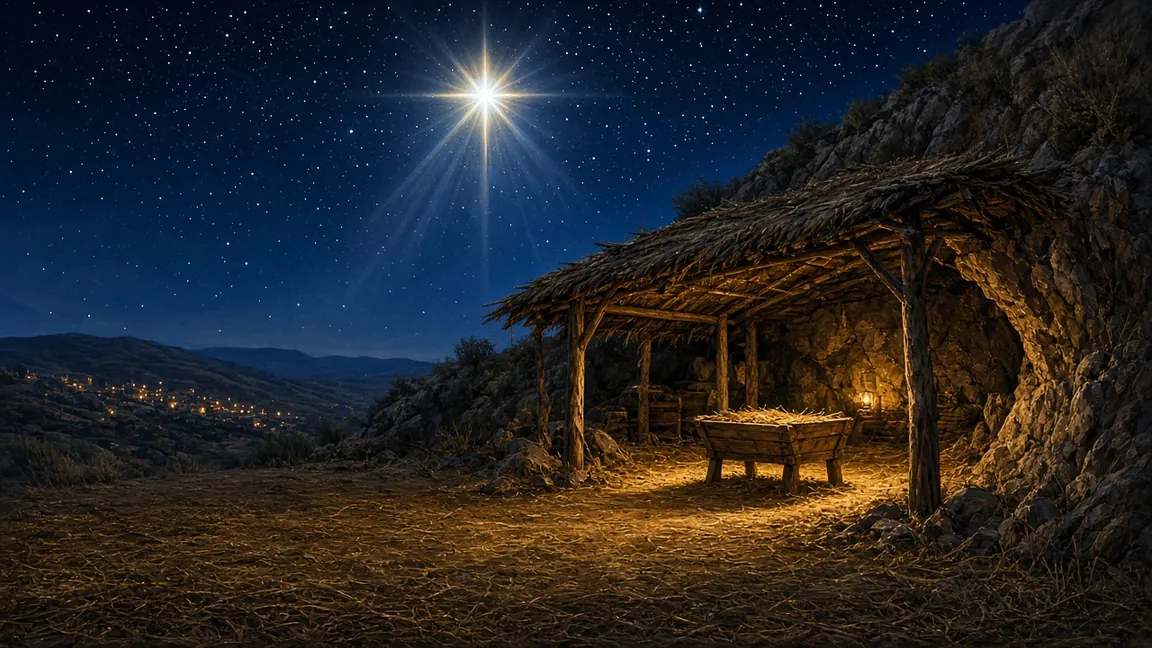
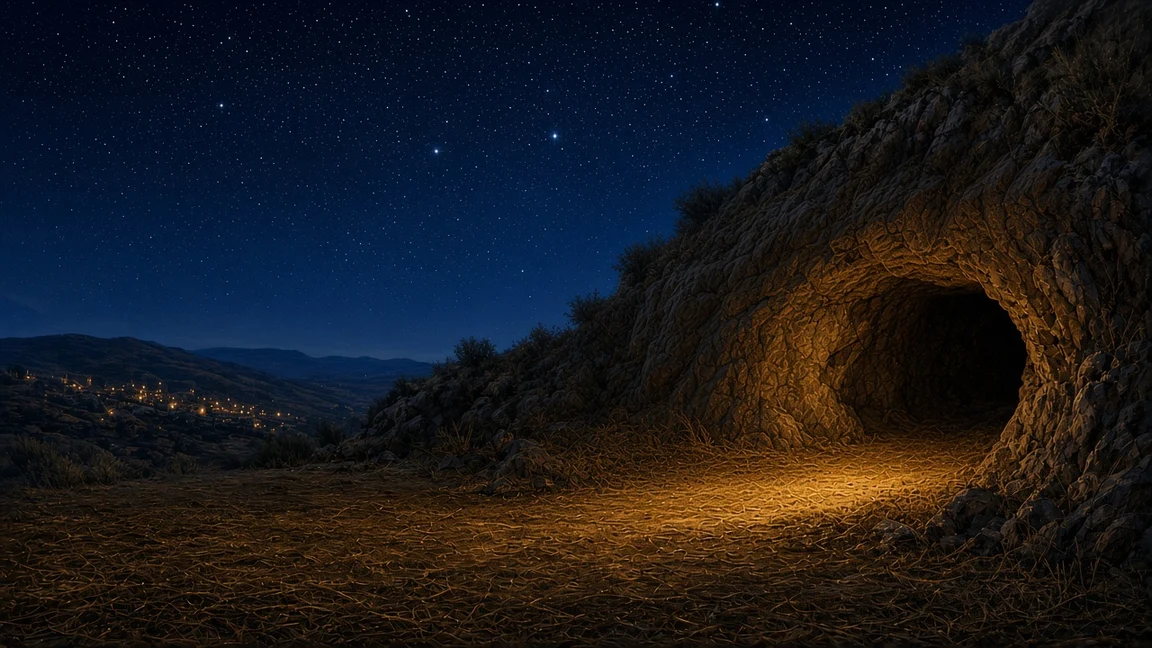
Title/nativity: one manger, one stable, one star (painted night backdrop repainted without its own shed/manger/star; stable's empty manger hidden once Baby Jesus is placed); sheep spaced in a natural flock, angels spaced; companions stay on the ground and leap gaps (no floating/stacking after a fall

Changed region(s): [[0.0, 0.0, 1.0, 1.0], [0.0625, 0.5864, 0.2188, 0.6481], [0.5938, 0.0, 0.625, 0.0309]]

diff --git a/index.html b/index.html
@@ -287,20 +287,20 @@ const LEVELS=[
   outro:[{who:'angel',text:'The angel Gabriel came to Mary in Nazareth with good news: she would have a son, and his name would be JESUS.',ref:'Luke 1:26-31'},
          {who:'mary',text:'"Behold the handmaid of the Lord; be it unto me according to thy word."',ref:'Luke 1:38 (KJV)'}],
   piece:'mary',why:'Mary trusted God\'s word. God always keeps his promises.'},
- {n:2,name:"Joseph's Dream",ref:'Matthew 1:20-23 (KJV)',theme:'day',hero:'joseph',song:1,len:2700,
+ {n:2,name:"Joseph's Dream",ref:'Matthew 1:23 (KJV)',theme:'day',hero:'joseph',song:1,len:2700,
   verse:'Behold, a virgin shall be with child, and shall bring forth a son, and they shall call his name Emmanuel, which being interpreted is, God with us.',
   pre:[{who:'dream',text:'While Joseph slept, the angel of the Lord appeared to him in a dream: "Joseph, thou son of David, fear not to take unto thee Mary thy wife."',ref:'Matthew 1:20 (KJV)'}],
   how:'Joseph woke up and obeyed. Gather 6 wooden planks and his 6 carpentry tools, then press ACTION to get the house ready.',
   obj:[{id:'plank',label:'Planks',n:6},{id:'tool',label:'Tools found',n:6},{id:'ready',label:'House ready',n:3}],goalLabel:'the house',
   outro:[{who:'joseph',text:'Joseph did as the angel of the Lord told him, and took Mary as his wife.',ref:'Matthew 1:24'}],
   piece:'joseph',why:'Jesus is Emmanuel. God came to be with us.'},
- {n:3,name:'No Room',ref:'Luke 2:1-7 (KJV)',theme:'night',hero:'joseph',song:2,len:2900,
+ {n:3,name:'No Room',ref:'Luke 2:7 (KJV)',theme:'night',hero:'joseph',song:2,len:2900,
   verse:'And she brought forth her firstborn son, and wrapped him in swaddling clothes, and laid him in a manger; because there was no room for them in the inn.',
   how:'Bethlehem is full! Knock on the inn doors with ACTION. Pick up straw on the way, then fix up the stable: sweep, fill the manger and calm the animals.',
   obj:[{id:'inn',label:'Inns asked',n:3},{id:'straw',label:'Straw',n:9},{id:'sweep',label:'Swept',n:4},{id:'calm',label:'Animals calm',n:2},{id:'manger',label:'Manger filled',n:1}],goalLabel:null,
   outro:[{who:'stable',text:'There was no room in the inn, so Mary laid her baby in a manger. The King of heaven was born in a humble stable.',ref:'Luke 2:7'}],
   piece:'stable',why:'The King of all came humbly, to a manger, for everyone.'},
- {n:4,name:"Shepherds' Field",ref:'Luke 2:8-12 (KJV)',theme:'field',hero:'shepherd',song:0,len:2900,
+ {n:4,name:"Shepherds' Field",ref:'Luke 2:8 (KJV)',theme:'field',hero:'shepherd',song:0,len:2900,
   verse:'And there were in the same country shepherds abiding in the field, keeping watch over their flock by night.',
   how:'Eight sheep wandered off! Walk close to each one and it will follow you. Bring all 8 back to the fold on the left.',
   obj:[{id:'fold',label:'Sheep home',n:8}],goalLabel:null,
@@ -313,14 +313,14 @@ const LEVELS=[
   obj:[{id:'note',label:'Notes of light',n:16}],goalLabel:'the choir',
   outro:[{who:'choir',text:'"Glory to God in the highest, and on earth peace, good will toward men."',ref:'Luke 2:14 (KJV)'}],
   piece:'angels',why:'Heaven celebrates, because the Saviour has come.'},
- {n:6,name:'Go and See',ref:'Luke 2:15-20 (KJV)',theme:'night',hero:'shepherd',song:2,len:2900,
+ {n:6,name:'Go and See',ref:'Luke 2:15-16 (KJV)',theme:'night',hero:'shepherd',song:2,len:2900,
   verse:'Let us now go even unto Bethlehem, and see this thing which is come to pass, which the Lord hath made known unto us. And they came with haste.',
   how:'Hurry to Bethlehem! Press ACTION to light the 10 street lanterns on the way, then find the stable.',
   obj:[{id:'lantern',label:'Lanterns lit',n:10}],goalLabel:'the stable',
   outro:[{who:'scene',text:'They came with haste, and found Mary, and Joseph, and the babe lying in a manger.',ref:'Luke 2:16 (KJV)'},
-         {who:'shepherds',text:'"And the shepherds returned, glorifying and praising God for all the things that they had heard and seen."',ref:'Luke 2:20 (KJV)'}],
+         {who:'shepherds',text:'"And the shepherds returned, glorifying and praising God for all the things that they had heard and seen, as it was told unto them."',ref:'Luke 2:20 (KJV)'}],
   piece:'shepherds',why:'Good news is for sharing. The shepherds told everyone.'},
- {n:7,name:'The Star',ref:'Matthew 2:1-11 (KJV)',theme:'night',hero:'wise',song:0,len:1900,
+ {n:7,name:'The Star',ref:'Matthew 2:10 (KJV)',theme:'night',hero:'wise',song:0,len:1900,
   verse:'When they saw the star, they rejoiced with exceeding great joy.',
   how:'The Wise Men have come to Bethlehem. Gather the starlight on the rooftops until the star stops over the HOUSE. Then present your 3 gifts at the door.',
   obj:[{id:'spark',label:'Starlight',n:14},{id:'gift',label:'Gifts given',n:3}],goalLabel:'the house',
@@ -363,11 +363,11 @@ function build(n){const L=LEVELS[n-1],w=newWorld(L),r=mulberry(n*7919+11);
     [[485,'"Sorry, no room here!"'],[1085,'"We are full. No room!"'],[1670,'"No room in the inn... but you may use my stable."']].forEach(([x,say],i)=>spot(w,'inn',x,GY,{obj:'inn',seq:i,say}));
     [[880,GY-24],[1270,GY-26],[1660,GY-30],[1845,GY-28],[2120,GY]].forEach(([x,y])=>item(w,'straw',x,y,{obj:'straw'}));
     [2330,2390,2520,2580].forEach(x=>spot(w,'sweep',x,GY,{obj:'sweep',need:['inn']}));spot(w,'manger',2456,GY,{obj:'manger',need:['inn','straw','sweep']});
-    w.npcs.push({k:'ox',x:2360,y:GY,f:1,ph:0,x0:2300,x1:2440,sp:10,calm:false,obj:'calm'},{k:'goat',x:2560,y:GY,f:-1,ph:0,x0:2480,x1:2620,sp:12,calm:false,obj:'calm'});
+    w.npcs.push({k:'ox',x:2360,y:GY,f:1,ph:0,x0:2300,x1:2418,sp:10,calm:false,obj:'calm'},{k:'goat',x:2560,y:GY,f:-1,ph:0,x0:2480,x1:2620,sp:12,calm:false,obj:'calm'});
     w.stable={x:2460};[900,1530].forEach(x=>w.thorns.push({x}));w.followers.push({k:'donkeyMary',x:20,y:GY,f:1,ph:0,until:2250});bgTown(w,r,0,1);w.goal={x:-1}}
   if(n===4){[[520,30],[1130,34],[1720,30],[2330,32]].forEach(a=>gap(w,...a));
     [[360,22,40],[860,26,50],[945,48,36],[1450,24,46],[1530,44,40],[1980,26,44],[2060,50,40],[2580,28,50]].forEach(([x,h,wd])=>plat(w,x,GY-h,wd,'rock'));
-    w.fold={x0:12,x1:92};w.start={x:116,y:GY};
+    w.fold={x0:12,x1:140};w.start={x:164,y:GY};
     [[380,GY-22],[700,GY],[960,GY-48],[1300,GY],[1550,GY-44],[1880,GY],[2080,GY-50],[2700,GY]].forEach(([x,y],i)=>w.sheep.push({x,y,f:i%2?1:-1,ph:0,name:SHEEP_NAMES[i],st:'lost',x0:x,mv:false,bub:0,i}));
     [640,1250,1820,2460].forEach(x=>w.thorns.push({x}));w.goal={x:-1}}
   if(n===5){w.len=200;w.segs=[[0,200]];const top=GY-2300;let x=90,y=GY;for(let i=0;y>top+60;i++){y-=28+(i%3)*3;const wd=34+r()*16|0;x=clamp(x+(r()<0.5?-1:1)*(28+r()*28),8,192-wd);const p=plat(w,x,y,wd,'cloud');if(i%5===3){p.mv=1;p.x0=x;p.amp=18;p.ph=r()*6}
@@ -389,7 +389,7 @@ function build(n){const L=LEVELS[n-1],w=newWorld(L),r=mulberry(n*7919+11);
     [[300,26,40],[700,30,44],[785,52,36],[1150,26,40],[1225,46,36]].forEach(([x,h,wd])=>plat(w,x,GY-h,wd,'rock'));house(w,1700,60,30);house(w,1840,80,34);
     [[200,GY],[320,GY-26],[620,GY],[800,GY-52],[1170,GY-26],[1240,GY-46],[1660,GY],[1730,GY-30]].forEach(([x,y])=>spot(w,'candle',x,y,{obj:'candle'}));
     spot(w,'see',1460,GY,{obj:'see',need:['candle']});w.stable={x:1460};[440,900].forEach(x=>w.thorns.push({x}));
-    w.npcs.push({k:'ox',x:1430,y:GY,f:1,ph:0,x0:1420,x1:1436,sp:3},{k:'donkey',x:1495,y:GY,f:-1,ph:0,x0:1486,x1:1500,sp:3});w.goal={x:-1};bgTown(w,r,0,1)}
+    w.npcs.push({k:'ox',x:1412,y:GY,f:1,ph:0,x0:1406,x1:1416,sp:3},{k:'donkey',x:1506,y:GY,f:-1,ph:0,x0:1502,x1:1510,sp:3});/* beside Mary and Joseph, not in front of them */w.goal={x:-1};bgTown(w,r,0,1)}
   const EXT={1:[1700,'spot','lamp',5],2:[1700,'item','plank',6],3:[1500,'item','straw',4],4:[900,null,null,0],6:[1500,'spot','lantern',4],7:[2200,'item','spark',5],8:[2300,'spot','candle',4]}[n];
   if(EXT)extendLevel(w,r,L,...EXT);
   return w}
@@ -476,11 +476,13 @@ const PIECE_ORDER=['stable','mary','joseph','sheep','angels','shepherds','star',
 let SCENE=LS.get('scene',{pieces:{},sheep:[],decos:[]});
 function saveScene(){LS.set('scene',SCENE)}
 function drawPiece(id,x,y,o2={}){const ph=o2.ph||0,mv=!!o2.mv;
-  if(id==='stable'){drawStable(x,y+1,{w:118,lit:1});drawOx(x-34,y-1,1,ph,mv,{h:21});drawDonkey(x+36,y-1,-1,ph+1,mv,{h:22});if(!SCENE.pieces.baby||o2.noBaby)drawManger(x+1,y,true,false,20)}
+  if(id==='stable'){drawStable(x,y+1,{w:118,lit:1});drawOx(x-34,y-1,1,ph,mv,{h:21});drawDonkey(x+36,y-1,-1,ph+1,mv,{h:22});if(!o2.hasBaby)drawManger(x+1,y,true,false,20)}   // one manger only: the stable's empty manger is hidden once Baby Jesus (in his own manger) is in the scene
   else if(id==='mary')drawChar(x,y,x<120?1:-1,0,LOOKS.mary,{h:30});else if(id==='joseph')drawChar(x,y,x<120?1:-1,0,LOOKS.joseph,{h:32});
   else if(id==='baby')drawManger(x,y,true,true,21);
-  else if(id==='sheep'){const n=Math.max(1,(SCENE.sheep||[]).length||8);for(let i=0;i<n;i++)drawSheep(x-15+(i%4)*10+(i>3?5:0),y-(i>3?5:0),i%2?1:-1,ph+i,mv,{h:12})}
-  else if(id==='angels'){for(let i=0;i<3;i++)drawChar(x-15+i*15,y+Math.sin(t*2+i)*2-(i===1?7:0),x<120?1:-1,0,LOOKS.angel,{wph:i*1.7,fly:1,h:24})}
+  else if(id==='sheep'){const n=Math.max(1,(SCENE.sheep||[]).length||8);   // a small flock, spaced so no sheep stands on another: front row on the ground line, back row smaller + a little higher (further away), drawn first
+    const F=[[-21,5,1],[-4,6,-1],[13,5,1],[30,6,-1]],B=[[-13,-1,-1],[22,-1,1],[5,-2,1],[-30,-1,-1]],L=[];for(let i=0;i<n;i++){const q=i<4?F[i]:B[i-4];L.push([x+q[0],y+q[1],q[2],i<4?12:9.5,i])}
+    L.sort((a,b)=>a[1]-b[1]);for(const q of L)drawSheep(q[0],q[1],q[2],ph+q[4],mv,{h:q[3]})}
+  else if(id==='angels'){for(let i=0;i<3;i++)drawChar(x-24+i*24,y+Math.sin(t*2+i)*2-(i===1?9:0),x<120?1:-1,0,LOOKS.angel,{wph:i*1.7,fly:1,h:24})}   // spaced so the three angels don't overlap
   else if(id==='shepherds'){drawChar(x,y,x<120?1:-1,0,LOOKS.shepherd,{h:31});drawChar(x+13,y,x<120?1:-1,0,LOOKS.boy,{h:23});drawSheep(x-12,y,x<120?1:-1,ph,mv,{lamb:1,h:11})}
   else if(id==='star')drawStar(x,y,2.2)}
 function sceneBG(w,h){if(!paint('stable_night',0,0,w,h,0.45)){const gr=o.createLinearGradient(0,0,0,h);gr.addColorStop(0,'#070a26');gr.addColorStop(1,'#3a3468');o.fillStyle=gr;o.fillRect(0,0,w,h)}
@@ -489,7 +491,7 @@ function sceneBG(w,h){if(!paint('stable_night',0,0,w,h,0.45)){const gr=o.createL
 const SCS=4;
 function drawNativity(ctx,o2={}){withCtx(ctx,()=>{ctx.setTransform(SCS,0,0,SCS,0,0);ctx.imageSmoothingEnabled=true;ctx.imageSmoothingQuality='high';sceneBG(240,150);const P=o2.pieces||SCENE.pieces,only=o2.upto;
   const ids=Object.keys(P).filter(k=>PIECES[k]&&(!only||only.includes(k)));ids.sort((a,b)=>(a==='stable'?-1:b==='stable'?1:a==='star'?-1:b==='star'?1:P[a].y-P[b].y));
-  TINT={c:'#202a6a',a:0.16};for(const id of ids){if(o2.skip===id)continue;drawPiece(id,P[id].x,P[id].y,{ph:o2.ph,mv:o2.mv})}
+  const hasBaby=ids.includes('baby')||o2.skip==='baby';TINT={c:'#202a6a',a:0.16};for(const id of ids){if(o2.skip===id)continue;drawPiece(id,P[id].x,P[id].y,{ph:o2.ph,mv:o2.mv,hasBaby})}
   const ds=SCENE.decos||[];for(const d of ds){if(o2.decoUpto!==undefined&&d>=o2.decoUpto)continue;const x=8+d*(224/25),y=d%2?146:149;drawDeco(DECOS[d%DECOS.length],x,y)}
   if(o2.extra)o2.extra();TINT=null;
   const vg=ctx.createRadialGradient(120,80,60,120,80,160);vg.addColorStop(0,'rgba(0,0,0,0)');vg.addColorStop(1,'rgba(0,0,10,.45)');ctx.fillStyle=vg;ctx.fillRect(0,0,240,150)})}
@@ -517,7 +519,7 @@ function overSeg(x){return W.segs.some(s=>x>=s[0]-1&&x<=s[1]+1)}
 function gapAt(x){for(let i=0;i<W.segs.length-1;i++){const a=W.segs[i][1],b=W.segs[i+1][0];if(x>a-1&&x<b+1)return [a,b]}return null}
 function hurt(fx){if(H.inv>0||(window.__QA&&__QA.god))return;hearts--;H.inv=1.8;shake=4;SFX.hurt();float(H.x,H.y-30,'-1 ♥','#ff8aa0');H.kx=(H.x<fx?-1:1)*120;H.vy=-150;H.onG=false;if(hearts<=0)outOfHearts()}
 function fallReset(){if(H.inv<=0&&!(window.__QA&&__QA.god)&&W.type!=='climb'){hearts--;float(H.safe.x,H.safe.y-30,'-1 ♥','#ff8aa0')}   // no heart lost while blinking
-  H.x=H.safe.x;H.y=H.safe.y;H.vx=H.vy=H.kx=0;H.onG=true;H.inv=2;SFX.hurt();camFollow(true);ST.falls=(ST.falls||0)+1;if(hearts<=0)outOfHearts()}
+  H.x=H.safe.x;H.y=H.safe.y;H.vx=H.vy=H.kx=0;H.onG=true;H.inv=2;SFX.hurt();camFollow(true);resetTrail();ST.falls=(ST.falls||0)+1;if(hearts<=0)outOfHearts()}
 function outOfHearts(){state='retry'}
 function objToast(id){const L=Lv(),n=L.level;if(!objDone(id))return;const msgs={lamp:"All lamps lit! Go to Mary's door ▶",tool:'All tools found!',plank:'All planks gathered!',ready:'The house is ready! Go in ▶',inn:'The innkeeper offers his stable ▶',straw:'Straw gathered! Fill the manger.',
    sweep:'The stable is swept!',calm:'The animals are calm.',note:'The choir is waiting at the top! ▲',lantern:'Lanterns lit! Find the stable ▶',spark:'The star stopped over the house! ▶',gift:'Gifts given! Go in to the house ▶',candle:'Bethlehem is glowing! Go to the manger ▶'};
@@ -544,6 +546,13 @@ function findNear(){let best=null,bd=1e9;
   for(const s of W.spots){if(s.done)continue;const dx=Math.abs(s.x-H.x),dy=Math.abs(s.y-H.y);if(dx<18&&dy<26&&dx<bd){bd=dx;best=s}}
   for(const a of W.npcs){if(!a.obj||a.calm)continue;const dx=Math.abs(a.x-H.x);if(dx<22&&Math.abs(a.y-H.y)<20&&dx<bd){bd=dx;best={npc:a,x:a.x,y:a.y}}}
   return best}
+// companions (Mary's donkey, magi, camels, sheep) walk on the street: on solid ground they stand at GY, over a gap they leap in a smooth arc.
+// They never climb onto roofs/ledges and never float (Peter Nov 1: check the animation logic).
+function groundY(x){if(!W||W.type==='climb'||overSeg(x))return GY;const g=gapAt(x);if(!g)return GY;const [a,b]=g,u=clamp((x-a)/Math.max(1,b-a),0,1);return GY-Math.sin(Math.PI*u)*Math.max(14,(b-a)*0.7)}
+function resetTrail(){trail=[];for(let i=600;i>=0;i--)trail.push({x:H.x-i,y:GY});W.followers.forEach((fo,i)=>{if(fo.parked)return;const p=trailAt(followGap(i));fo.x=p.x;fo.y=groundY(fo.x)});
+  if(W.sheep)W.sheep.filter(q=>q.st==='follow').sort((a,b)=>a.fo-b.fo).forEach((q,k)=>{const p=trailAt((k+1)*17);q.x=p.x;q.y=groundY(q.x)})}
+function foldX(i){return W.fold.x0+9+i*16}   // 8 spots, one sheep-width apart
+function followGap(i){return W.followers.slice(0,i+1).reduce((a,q)=>a+(q.k==='magus'?17:q.k==='camel'?30:24)*(q.k==='donkeyMary'?1:clamp(VW/280,0.52,1)),0)}
 function trailAt(back){const i=Math.max(0,trail.length-1-Math.round(back));return trail[i]}
 // ---------- main update
 function update(dt){t+=dt;if(toastT>0)toastT-=dt;if(shake>0)shake=Math.max(0,shake-dt*20);updParts(dt);
@@ -573,8 +582,8 @@ function update(dt){t+=dt;if(toastT>0)toastT-=dt;if(shake>0)shake=Math.max(0,sha
   // thorns
   for(const th of W.thorns)if(Math.abs(H.x-th.x)<7&&H.y>GY-9&&H.y<=GY+2)hurt(th.x);
   if(state!=='play')return;
-  // trail for followers
-  const lt=trail[trail.length-1],d=Math.hypot(H.x-lt.x,H.y-lt.y);if(d>48){const dx=H.x-lt.x,dy=H.y-lt.y;trail=trail.map(q=>({x:q.x+dx,y:Math.min(GY,q.y+dy)}));W.followers.forEach(fo=>{if(!fo.parked){fo.x+=dx;fo.y=Math.min(GY,fo.y+dy)}})}else if(d>=1){const n=Math.floor(d);for(let i=1;i<=n;i++)trail.push({x:lerp(lt.x,H.x,i/n),y:lerp(lt.y,H.y,i/n)});if(trail.length>900)trail.splice(0,trail.length-900)}
+  // trail for followers (horizontal distance only, so jumping in place doesn't pull companions onto the hero)
+  const lt=trail[trail.length-1],d=Math.abs(H.x-lt.x);if(d>48){resetTrail()}else if(d>=1){const n=Math.floor(d);for(let i=1;i<=n;i++)trail.push({x:lerp(lt.x,H.x,i/n),y:GY});if(trail.length>900)trail.splice(0,trail.length-900)}
   // items
   for(const k of W.items){if(k.got)continue;if(Math.abs(k.x-H.x)<10&&Math.abs(k.y-(H.y-8))<16){k.got=true;ST[k.obj]=(ST[k.obj]||0)+1;SFX.pick();part(k.x,k.y-4,12,['#ffe08a','#fff'],{sp:30,add:true});
     if(level===2)readyHint();float(k.x,k.y-16,k.k==='tool'?k.tool[0].toUpperCase()+k.tool.slice(1)+'!':k.k==='straw'?'Straw!':k.k==='plank'?'Plank!':k.k==='note'?'♪':'✦');objToast(k.obj)}}
@@ -584,12 +593,12 @@ function update(dt){t+=dt;if(toastT>0)toastT-=dt;if(shake>0)shake=Math.max(0,sha
     for(const s of W.sheep){s.ph+=dt*10;const ox=s.x;
       if(s.st==='lost'){s.wt=(s.wt||0)-dt;if(s.wt<=0){s.wt=rnd(1.5,3.5);s.walk=Math.random()<0.55;if(s.walk)s.f=s.x>s.x0+14?-1:s.x<s.x0-14?1:pick([1,-1])}if(s.walk)s.x+=s.f*7*dt;
         if(Math.abs(H.x-s.x)<20&&Math.abs(H.y-s.y)<16){s.st='follow';s.fo=performance.now()+Math.random();SFX.bleat();float(s.x,s.y-20,s.name+' follows you!','#ffffff');bubble(s,'Baa!',1.2)}}
-      else if(s.st==='follow'){const k=fol.indexOf(s);if(home){const tx=W.fold.x0+10+((ST.fold+k)%8)*8;s.x=lerp(s.x,tx,Math.min(1,dt*2.5));s.y=lerp(s.y,GY,Math.min(1,dt*6));if(s.x<W.fold.x1-4){s.st='home';ST.fold++;SFX.bleat();float(s.x,s.y-20,s.name+' is home!','#bdf3ff');objToast('fold')}}
-        else{const p=trailAt((k+1)*15);s.x=lerp(s.x,p.x,Math.min(1,dt*7));s.y=lerp(s.y,p.y,Math.min(1,dt*9))}}
-      else{s.wt=(s.wt||0)-dt;if(s.wt<=0){s.wt=rnd(1.5,4);s.walk=Math.random()<0.5;s.f=pick([1,-1])}if(s.walk){s.x+=s.f*5*dt;if(s.x<W.fold.x0+5){s.x=W.fold.x0+5;s.f=1}if(s.x>W.fold.x1-6){s.x=W.fold.x1-6;s.f=-1}}s.y=GY}
-      const dx=s.x-ox;s.mv=Math.abs(dx)>0.02;if(Math.abs(dx)>0.05)s.f=dx>0?1:-1}}
+      else if(s.st==='follow'){const k=fol.indexOf(s);if(home){const tx=foldX(Math.min(7,ST.fold+k));s.x=lerp(s.x,tx,Math.min(1,dt*2.5));s.y=groundY(s.x);if(s.x<W.fold.x1-4){s.st='home';const used=W.sheep.filter(q=>q.st==='home'&&q!==s).map(q=>q.slot);let bs=0,bd=1e9;for(let j2=0;j2<8;j2++)if(!used.includes(j2)&&Math.abs(foldX(j2)-s.x)<bd){bd=Math.abs(foldX(j2)-s.x);bs=j2}s.slot=bs;ST.fold++;SFX.bleat();float(s.x,s.y-20,s.name+' is home!','#bdf3ff');objToast('fold')}}
+        else{const p=trailAt((k+1)*17);s.x=lerp(s.x,p.x,Math.min(1,dt*7));s.y=groundY(s.x)}}
+      else{s.x=lerp(s.x,foldX(s.slot||0),Math.min(1,dt*2.5));s.y=GY;s.wt=(s.wt||0)-dt;if(s.wt<=0){s.wt=rnd(2,5);s.face=pick([1,-1])}}   // home: each sheep keeps its own spot in the fold and just turns now and then (no walking through each other)
+      const dx=s.x-ox;s.mv=Math.abs(dx)>0.02;if(Math.abs(dx)>0.05)s.f=dx>0?1:-1;else if(s.st==='home'&&s.face)s.f=s.face}}
   // followers (Mary on the donkey, the camels)
-  W.followers.forEach((fo,i)=>{const ox=fo.x;if(fo.until&&H.x>fo.until)fo.parked=true;if(!fo.parked){const p=trailAt(W.followers.slice(0,i+1).reduce((a,q)=>a+(q.k==='magus'?17:q.k==='camel'?30:24)*(q.k==='donkeyMary'?1:clamp(VW/280,0.52,1)),0));fo.x=lerp(fo.x,p.x,Math.min(1,dt*7));fo.y=lerp(fo.y,Math.min(GY,p.y),Math.min(1,dt*9))}
+  W.followers.forEach((fo,i)=>{const ox=fo.x;if(fo.until&&H.x>fo.until)fo.parked=true;if(!fo.parked){const p=trailAt(followGap(i));fo.x=lerp(fo.x,p.x,Math.min(1,dt*7));fo.y=groundY(fo.x)}
     const dx=fo.x-ox;fo.mv=Math.abs(dx)>0.02;if(Math.abs(dx)>0.05)fo.f=dx>0?1:-1;if(fo.mv)fo.ph+=dt*9});
   // npcs walk (animals and villagers)
   for(const a of W.npcs){const ox=a.x;if(!a.calm){a.wt=(a.wt||0)-dt;if(a.wt<=0){a.wt=rnd(1,3);a.walk=Math.random()<0.7}if(a.walk){a.x+=a.f*a.sp*dt;if(a.x>a.x1){a.x=a.x1;a.f=-1}if(a.x<a.x0){a.x=a.x0;a.f=1}}}else a.f=H.x<a.x?-1:1;
@@ -801,7 +810,7 @@ function sceneArea(top,bottomPad){const land=LY.land;const aw=CW-24-SAFE.l-SAFE.
 function drawDecorate(){const land=LY.land,id=DEC.id,P=PIECES[id];menuBG();
   const head=wrap('You earned '+P.name+'! Drag it anywhere in your nativity, then tap Place it.',Math.min(CW-30,700),18);head.forEach((l,i)=>txt(l,CW/2,SAFE.t+22+i*24,18,'#ffe14a'));
   const top=SAFE.t+22+head.length*24;const R=sceneArea(top,70);DEC.rect=R;
-  drawNativity(sceneCtx,{ph:t*3,skip:id,extra:()=>{glow(DEC.x,DEC.y-8,26+4*Math.sin(t*4),'255,250,200',0.5);drawPiece(id,DEC.x,DEC.y,{ph:t*3,mv:false})}});
+  drawNativity(sceneCtx,{ph:t*3,skip:id,extra:()=>{glow(DEC.x,DEC.y-8,26+4*Math.sin(t*4),'255,250,200',0.5);drawPiece(id,DEC.x,DEC.y,{ph:t*3,mv:false,hasBaby:!!SCENE.pieces.baby})}});
   blit(sceneCv,R.x,R.y,R.w,R.h);frame2(R);
   const bw=Math.min(300,CW-40);button('place',(CW-bw)/2,CH-SAFE.b-60,bw,52,'Place it ✓','#2f9f4f',()=>{SCENE.pieces[id]={x:Math.round(DEC.x),y:Math.round(DEC.y)};saveScene();SFX.place();state='why'},22);menuBtns[menuBtns.length-1].primary=1}
 function drawWhy(){const L=Lv(),land=LY.land;menuBG();drawNativity(sceneCtx,{ph:t*3});const R=sceneArea(SAFE.t+12,land?190:300);blit(sceneCv,R.x,R.y,R.w,R.h);frame2(R);
@@ -825,7 +834,7 @@ function drawReplay(){g.fillStyle='#000';g.fillRect(0,0,CW,CH);const ids=PIECE_O
   const upto=ids.filter((k,i)=>T>0.8+i*(6.4/n));const R=sceneArea(SAFE.t+12,80);
   drawNativity(sceneCtx,{ph:t*3,mv:true,upto,decoUpto:T>7.4?99:-1,extra:()=>{const i=upto.length-1;if(i>=0){const p=SCENE.pieces[ids[i]],k=T-(0.8+i*(6.4/n));if(k<0.8)glow(p.x,p.y-10,40*(1-k),'255,250,220',0.8)}}});
   const fade=clamp(T/0.8,0,1);g.globalAlpha=fade;blit(sceneCv,R.x,R.y,R.w,R.h);g.globalAlpha=1;
-  if(T>8.2){g.globalAlpha=clamp((T-8.2)/0.6,0,1);txt('My Nativity',CW/2,R.y+R.h*0.18,fitSize('My Nativity',R.w,40),'#ffe14a','center',{lw:6,st:'#3a2208'});txt('"Unto you is born this day... a Saviour" Luke 2:11',CW/2,R.y+R.h*0.18+40,fitSize('"Unto you is born this day... a Saviour" Luke 2:11',R.w-20,18),'#fff');g.globalAlpha=1}
+  if(T>8.2){g.globalAlpha=clamp((T-8.2)/0.6,0,1);txt('My Nativity',CW/2,R.y+R.h*0.18,fitSize('My Nativity',R.w,40),'#ffe14a','center',{lw:6,st:'#3a2208'});txt('"Unto you is born this day... a Saviour" Luke 2:11 (KJV)',CW/2,R.y+R.h*0.18+40,fitSize('"Unto you is born this day... a Saviour" Luke 2:11 (KJV)',R.w-20,18),'#fff');g.globalAlpha=1}
   g.fillStyle='#ffcf4a';g.fillRect(R.x,R.y+R.h+8,R.w*clamp(T/10,0,1),4);
   button('skipr',CW-SAFE.r-120,CH-SAFE.b-58,108,48,'Skip ⏭','#4a4a6a',()=>{state='scene'},18);if(T>=10)state='scene'}
 function adventDay(){const now=window.__QA&&__QA.date?new Date(__QA.date):new Date();let Y=now.getFullYear();if(now.getMonth()<6)Y--;for(let i=25;i>=0;i--){if(now>=new Date(Y,10,29+i))return i+1}return 0}
@@ -975,5 +984,5 @@ if(window.__QA){
     if(A.tgtT>14&&tg.o&&typeof tg.o==='object'){H.x=tg.x;H.y=tg.y;H.vy=0;A.assists++;A.tgtT=0}}
 }
 
-window.__VERSION=37;
+window.__VERSION=45;
 </script></body></html>

diff --git a/sw.js b/sw.js
@@ -1,4 +1,4 @@
-const P='prepare-the-manger-',V=P+'v37',FILES=['./','index.html','manifest.json','icon-192.png','icon-512.png','art/spr/angel_down.webp','art/spr/angel_stand.webp','art/spr/angel_stand_body.webp','art/spr/angel_up.webp','art/spr/angel_walk.webp','art/spr/b_house.webp','art/spr/b_inn.webp','art/spr/boy_stand.webp','art/spr/boy_stand_body.webp','art/spr/boy_walk.webp','art/spr/camel1.webp','art/spr/camel1_body.webp','art/spr/camel1_leg0s.webp','art/spr/camel1_leg0t.webp','art/spr/camel1_leg1s.webp','art/spr/camel1_leg1t.webp','art/spr/camel1_leg2s.webp','art/spr/camel1_leg2t.webp','art/spr/camel1_leg3s.webp','art/spr/camel1_leg3t.webp','art/spr/camel1_rig.webp','art/spr/camel2.webp','art/spr/camel2_body.webp','art/spr/camel2_leg0s.webp','art/spr/camel2_leg0t.webp','art/spr/camel2_leg1s.webp','art/spr/camel2_leg1t.webp','art/spr/camel2_leg2s.webp','art/spr/camel2_leg2t.webp','art/spr/camel2_leg3s.webp','art/spr/camel2_leg3t.webp','art/spr/camel2_rig.webp','art/spr/candle.webp','art/spr/candle_off.webp','art/spr/chest.webp','art/spr/chisel.webp','art/spr/donkey.webp','art/spr/donkey_body.webp','art/spr/dove0.webp','art/spr/dove1.webp','art/spr/dove2.webp','art/spr/fold.webp','art/spr/frank.webp','art/spr/goat_body.webp','art/spr/h_door.webp','art/spr/h_humble.webp','art/spr/h_inn.webp','art/spr/h_win.webp','art/spr/hammer.webp','art/spr/joseph_stand.webp','art/spr/joseph_stand2.webp','art/spr/joseph_stand_body.webp','art/spr/joseph_walk.webp','art/spr/lamb.webp','art/spr/lamb_body.webp','art/spr/lamp.webp','art/spr/lamp_off.webp','art/spr/lantern.webp','art/spr/lantern_off.webp','art/spr/magus1.webp','art/spr/magus1_body.webp','art/spr/magus2.webp','art/spr/magus2_body.webp','art/spr/magus3.webp','art/spr/magus3_body.webp','art/spr/mallet.webp','art/spr/manger.webp','art/spr/manger_baby.webp','art/spr/mary_ride.webp','art/spr/mary_ride_body.webp','art/spr/mary_stand.webp','art/spr/mary_stand_body.webp','art/spr/mary_walk.webp','art/spr/myrrh.webp','art/spr/ox.webp','art/spr/ox_body.webp','art/spr/p_awning.webp','art/spr/p_cloud.webp','art/spr/p_lumber.webp','art/spr/p_rock.webp','art/spr/p_stone.webp','art/spr/plane.webp','art/spr/plank.webp','art/spr/saw.webp','art/spr/sheep.webp','art/spr/sheep_body.webp','art/spr/shep_stand.webp','art/spr/shep_stand_body.webp','art/spr/shep_walk.webp','art/spr/square.webp','art/spr/stable.webp','art/spr/stall.webp','art/spr/straw.webp','art/spr/thorn.webp','art/bg/bethlehem_star.webp','art/bg/g_cobble.webp','art/bg/g_dirt.webp','art/bg/g_grass.webp','art/bg/g_straw.webp','art/bg/g_water.webp','art/bg/hills_star.webp','art/bg/inn_street.webp','art/bg/nazareth_day.webp','art/bg/nazareth_dusk.webp','art/bg/nazareth_morning.webp','art/bg/road.webp','art/bg/sky_angels.webp','art/bg/stable_night.webp','art/bg/story_dream.webp'];
+const P='prepare-the-manger-',V=P+'v45',FILES=['./','index.html','manifest.json','icon-192.png','icon-512.png','art/spr/angel_down.webp','art/spr/angel_stand.webp','art/spr/angel_stand_body.webp','art/spr/angel_up.webp','art/spr/angel_walk.webp','art/spr/b_house.webp','art/spr/b_inn.webp','art/spr/boy_stand.webp','art/spr/boy_stand_body.webp','art/spr/boy_walk.webp','art/spr/camel1.webp','art/spr/camel1_body.webp','art/spr/camel1_leg0s.webp','art/spr/camel1_leg0t.webp','art/spr/camel1_leg1s.webp','art/spr/camel1_leg1t.webp','art/spr/camel1_leg2s.webp','art/spr/camel1_leg2t.webp','art/spr/camel1_leg3s.webp','art/spr/camel1_leg3t.webp','art/spr/camel1_rig.webp','art/spr/camel2.webp','art/spr/camel2_body.webp','art/spr/camel2_leg0s.webp','art/spr/camel2_leg0t.webp','art/spr/camel2_leg1s.webp','art/spr/camel2_leg1t.webp','art/spr/camel2_leg2s.webp','art/spr/camel2_leg2t.webp','art/spr/camel2_leg3s.webp','art/spr/camel2_leg3t.webp','art/spr/camel2_rig.webp','art/spr/candle.webp','art/spr/candle_off.webp','art/spr/chest.webp','art/spr/chisel.webp','art/spr/donkey.webp','art/spr/donkey_body.webp','art/spr/dove0.webp','art/spr/dove1.webp','art/spr/dove2.webp','art/spr/fold.webp','art/spr/frank.webp','art/spr/goat_body.webp','art/spr/h_door.webp','art/spr/h_humble.webp','art/spr/h_inn.webp','art/spr/h_win.webp','art/spr/hammer.webp','art/spr/joseph_stand.webp','art/spr/joseph_stand2.webp','art/spr/joseph_stand_body.webp','art/spr/joseph_walk.webp','art/spr/lamb.webp','art/spr/lamb_body.webp','art/spr/lamp.webp','art/spr/lamp_off.webp','art/spr/lantern.webp','art/spr/lantern_off.webp','art/spr/magus1.webp','art/spr/magus1_body.webp','art/spr/magus2.webp','art/spr/magus2_body.webp','art/spr/magus3.webp','art/spr/magus3_body.webp','art/spr/mallet.webp','art/spr/manger.webp','art/spr/manger_baby.webp','art/spr/mary_ride.webp','art/spr/mary_ride_body.webp','art/spr/mary_stand.webp','art/spr/mary_stand_body.webp','art/spr/mary_walk.webp','art/spr/myrrh.webp','art/spr/ox.webp','art/spr/ox_body.webp','art/spr/p_awning.webp','art/spr/p_cloud.webp','art/spr/p_lumber.webp','art/spr/p_rock.webp','art/spr/p_stone.webp','art/spr/plane.webp','art/spr/plank.webp','art/spr/saw.webp','art/spr/sheep.webp','art/spr/sheep_body.webp','art/spr/shep_stand.webp','art/spr/shep_stand_body.webp','art/spr/shep_walk.webp','art/spr/square.webp','art/spr/stable.webp','art/spr/stall.webp','art/spr/straw.webp','art/spr/thorn.webp','art/bg/bethlehem_star.webp','art/bg/g_cobble.webp','art/bg/g_dirt.webp','art/bg/g_grass.webp','art/bg/g_straw.webp','art/bg/g_water.webp','art/bg/hills_star.webp','art/bg/inn_street.webp','art/bg/nazareth_day.webp','art/bg/nazareth_dusk.webp','art/bg/nazareth_morning.webp','art/bg/road.webp','art/bg/sky_angels.webp','art/bg/stable_night.webp','art/bg/story_dream.webp'];
 self.addEventListener('install',e=>{e.waitUntil(caches.open(V).then(c=>c.addAll(FILES)));self.skipWaiting()});
 self.addEventListener('activate',e=>{e.waitUntil(caches.keys().then(k=>Promise.all(k.filter(n=>n!=V&&n.startsWith(P)).map(n=>caches.delete(n)))).then(()=>self.clients.claim()))});
 self.addEventListener('fetch',e=>{if(e.request.method!='GET')return;e.respondWith(fetch(e.request).then(r=>{if(r.ok){const cp=r.clone();caches.open(V).then(c=>c.put(e.request,cp))}return r}).catch(()=>caches.open(V).then(c=>c.match(e.request,{ignoreSearch:true}).then(r=>r||(e.request.mode=='navigate'?c.match('./'):undefined)))))});
